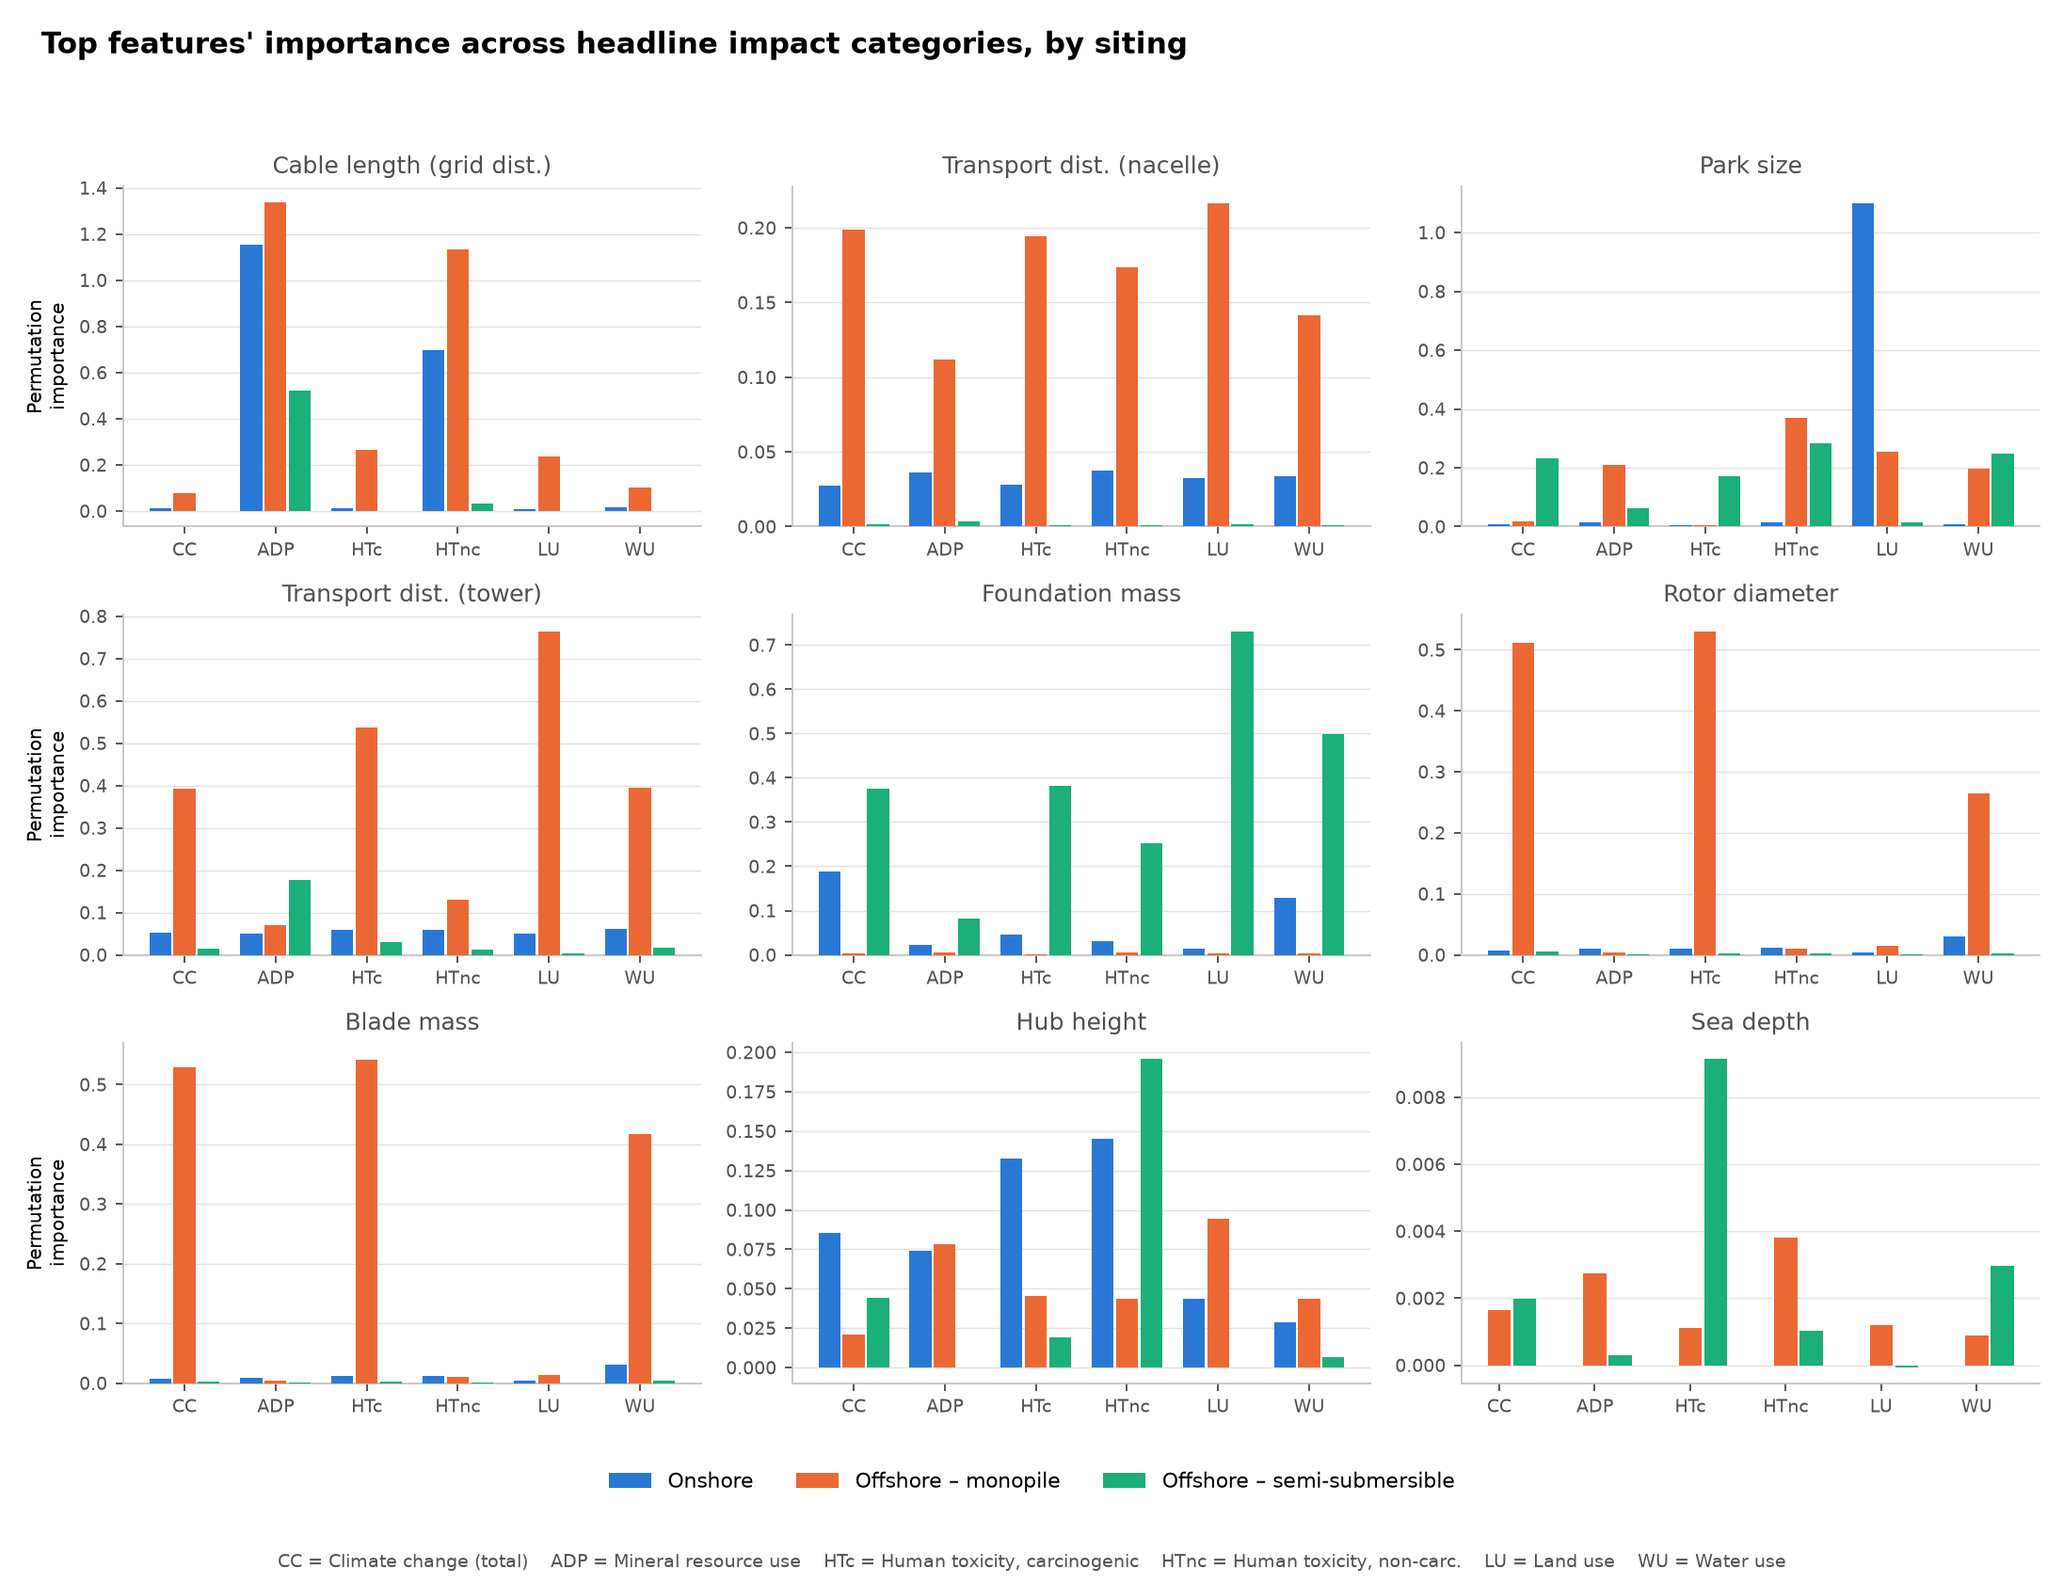
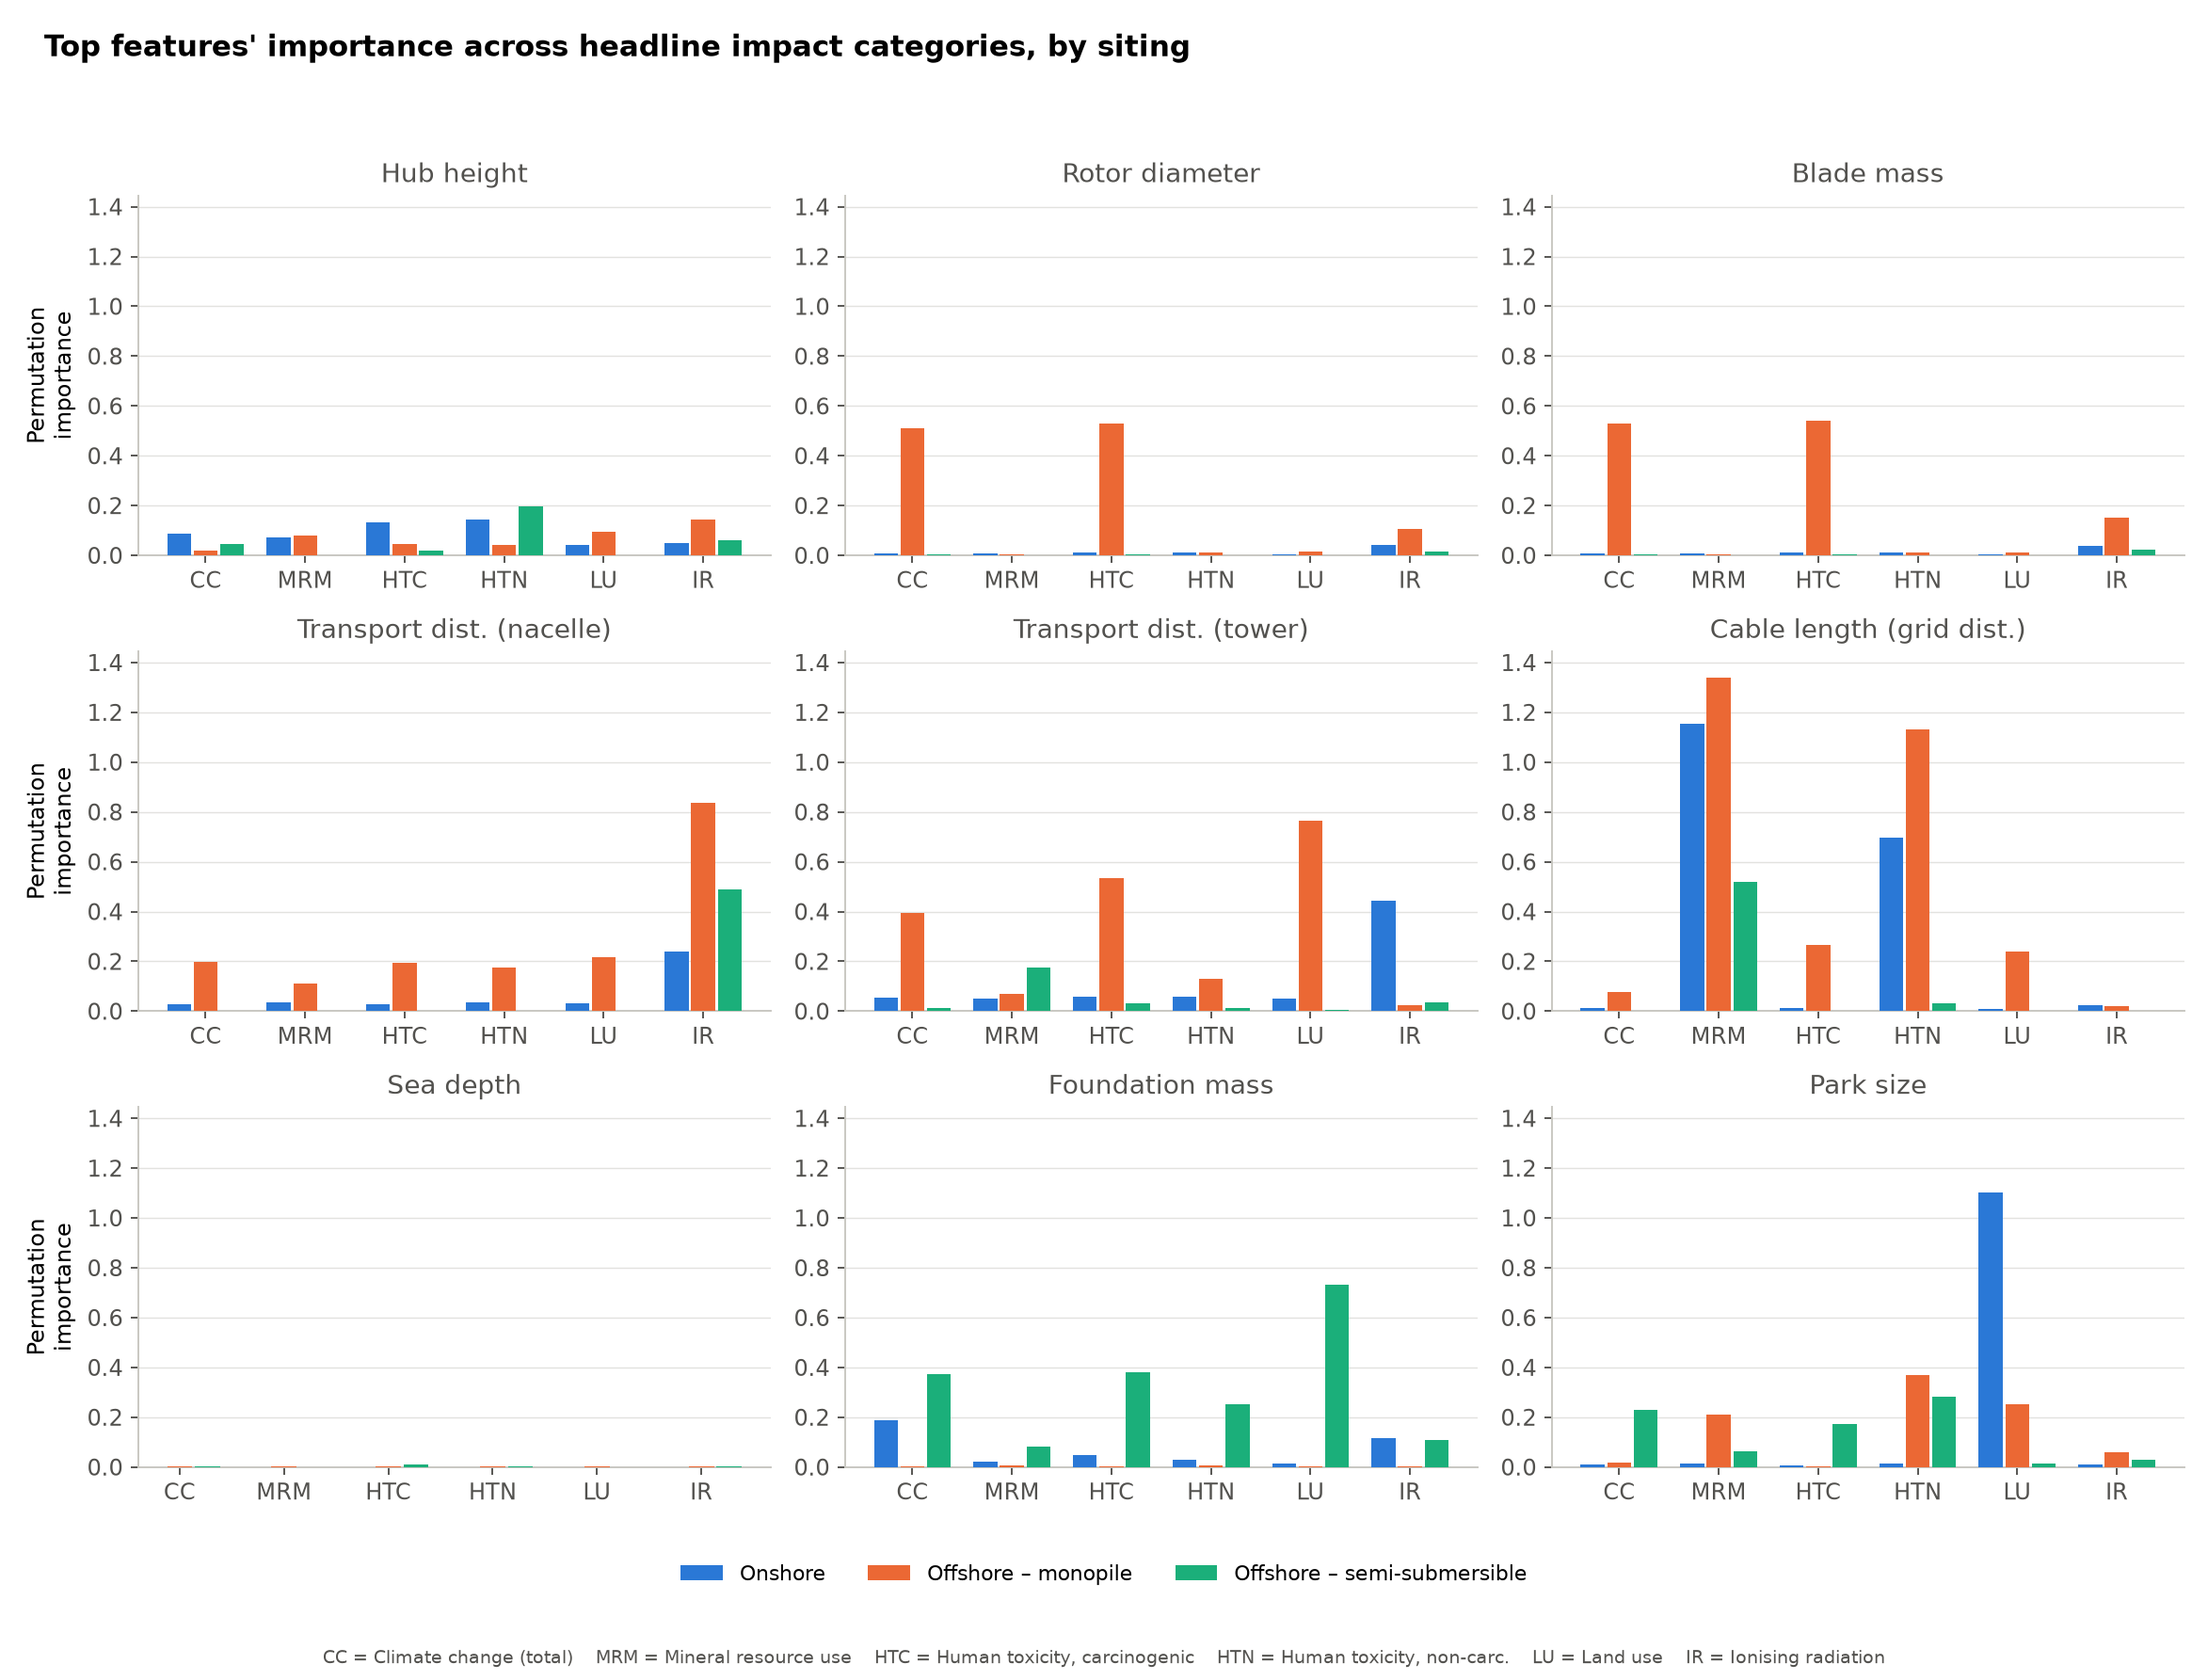
regenerated figure with slight modifications (cosmetic)

diff --git a/generate_feature_importance.py b/generate_feature_importance.py
@@ -198,15 +198,15 @@ IMPACT_ABBREV = {
     "Eutrophication, freshwater": "EPf",
     "Eutrophication, marine": "EPm",
     "Eutrophication, terrestrial": "EPt",
-    "Human toxicity, carcinogenic": "HTc",
-    "Human toxicity, carc. (inorg.)": "HTci",
-    "Human toxicity, carc. (org.)": "HTco",
-    "Human toxicity, non-carc.": "HTnc",
-    "Human toxicity, non-carc. (inorg.)": "HTnci",
-    "Human toxicity, non-carc. (org.)": "HTnco",
-    "Ionising radiation": "IRP",
+    "Human toxicity, carcinogenic": "HTC",
+    "Human toxicity, carc. (inorg.)": "HTCi",
+    "Human toxicity, carc. (org.)": "HTCo",
+    "Human toxicity, non-carc.": "HTN",
+    "Human toxicity, non-carc. (inorg.)": "HTNi",
+    "Human toxicity, non-carc. (org.)": "HTNo",
+    "Ionising radiation": "IR",
     "Land use": "LU",
-    "Mineral resource use": "ADP",
+    "Mineral resource use": "MRM",
     "Ozone depletion": "ODP",
     "Particulate matter": "PM",
     "Photochemical ozone formation": "POF",
@@ -225,7 +225,24 @@ CATEGORY_COLORS = {"onshore": BLUE, "offshore_monopile": ORANGE, "offshore_semi-
 # what papers in this space usually lead with (a climate metric, a resource-depletion metric, two
 # human-health metrics, land, and water), not a data-driven selection.
 HEADLINE_IMPACTS = ["Climate change (total)", "Mineral resource use", "Human toxicity, carcinogenic",
-                     "Human toxicity, non-carc.", "Land use", "Water use"]
+                     "Human toxicity, non-carc.", "Land use", "Ionising radiation"]
+
+# Manual row groups for fig_top_features_by_impact_grid.png -- puts related features on the same
+# row (turbine size/mass, then transport/logistics, then site/foundation) so a reader scanning
+# the grid sees like features side by side instead of raw importance-rank order.
+GRID_ROW_GROUPS = [
+    ["Hub_height_m", "Diameter_m", "Blade_mass_kg"],
+    ["dist_nacelle_m", "dist_tower_m", "dist_to_grid_m"],
+    ["sea_depth_m", "Foundation_mass_kg", "park_size"],
+]
+
+
+def _order_features_by_group(features: list[str]) -> list[str]:
+    """Reorders `features` into GRID_ROW_GROUPS's row-by-row layout. Any feature not covered by
+    the groups is appended at the end, so this stays safe if the top-N feature set ever changes."""
+    grouped = [f for row in GRID_ROW_GROUPS for f in row if f in features]
+    leftover = [f for f in features if f not in grouped]
+    return grouped + leftover
 
 
 def classify_category(filename: str) -> str:
@@ -568,12 +585,20 @@ def plot_top_features_by_impact_grid(perm_matrices: dict[str, pd.DataFrame],
     n = len(features)
     ncols = 3
     nrows = -(-n // ncols)  # ceil
-    fig, axes = plt.subplots(nrows, ncols, figsize=(4.3 * ncols, 3.3 * nrows), squeeze=False)
+    fig, axes = plt.subplots(nrows, ncols, figsize=(4.6 * ncols, 3.5 * nrows), squeeze=False)
     axes = axes.flatten()
 
     x = np.arange(len(impact_labels))
     width = 0.8 / len(modeled_categories)
     xticklabels = [IMPACT_ABBREV.get(lbl, lbl[:3]) for lbl in impact_labels]
+
+    # One shared y-axis ceiling across every panel -- with each subplot free-scaling on its own,
+    # a feature that barely matters anywhere (max ~0.02) fills its panel just as much as one that
+    # dominates (max ~1.3), so a reader's first glance overstates how much is going on. Pinning
+    # all panels to the same ceiling means panel "fullness" is directly comparable at a glance.
+    all_vals = [perm_matrices[cat].loc[f, impact_labels].values.astype(float)
+                for cat in modeled_categories for f in features if f in perm_matrices[cat].index]
+    ymax = float(np.concatenate(all_vals).max()) * 1.08 if all_vals else 1.0
 
     for ax, f in zip(axes, features):
         for i, cat in enumerate(modeled_categories):
@@ -584,19 +609,20 @@ def plot_top_features_by_impact_grid(perm_matrices: dict[str, pd.DataFrame],
             offset = (i - (len(modeled_categories) - 1) / 2) * width
             ax.bar(x + offset, vals, width=width * 0.9, color=CATEGORY_COLORS[cat],
                    label=CATEGORY_TITLES[cat], zorder=3)
-        ax.set_title(FEATURE_LABELS[f], fontsize=10.5, color=TEXT_SECONDARY)
+        ax.set_title(FEATURE_LABELS[f], fontsize=12, color=TEXT_SECONDARY)
         ax.set_xticks(x)
-        ax.set_xticklabels(xticklabels, fontsize=8)
+        ax.set_xticklabels(xticklabels, fontsize=10.5)
+        ax.set_ylim(0, ymax)
         ax.spines[["top", "right"]].set_visible(False)
         ax.spines[["left", "bottom"]].set_color(GRAY)
-        ax.tick_params(colors=TEXT_SECONDARY, labelsize=8)
+        ax.tick_params(colors=TEXT_SECONDARY, labelsize=10)
         ax.grid(axis="y", color=GRAY, linewidth=0.6, alpha=0.5, zorder=0)
         ax.set_axisbelow(True)
 
     for ax in axes[n:]:
         ax.axis("off")
     for row in range(nrows):
-        axes[row * ncols].set_ylabel("Permutation\nimportance", fontsize=8.5)
+        axes[row * ncols].set_ylabel("Permutation\nimportance", fontsize=10)
 
     # One legend for the whole grid, built from whichever subplots have categories present -- a
     # subplot missing a category (e.g. sea depth, onshore) would otherwise give an incomplete
@@ -967,7 +993,8 @@ def main():
     max_importance_path = plot_max_importance_by_type(
         perm_matrices_raw, modeled_categories, OUT / "fig_max_importance_by_siting.png")
 
-    top9_features = _rank_features_by_max_importance(perm_matrices_raw, modeled_categories)[:9]
+    top9_features = _order_features_by_group(
+        _rank_features_by_max_importance(perm_matrices_raw, modeled_categories)[:9])
     top_features_grid_path = plot_top_features_by_impact_grid(
         perm_matrices_raw, modeled_categories, top9_features, HEADLINE_IMPACTS,
         OUT / "fig_top_features_by_impact_grid.png")
